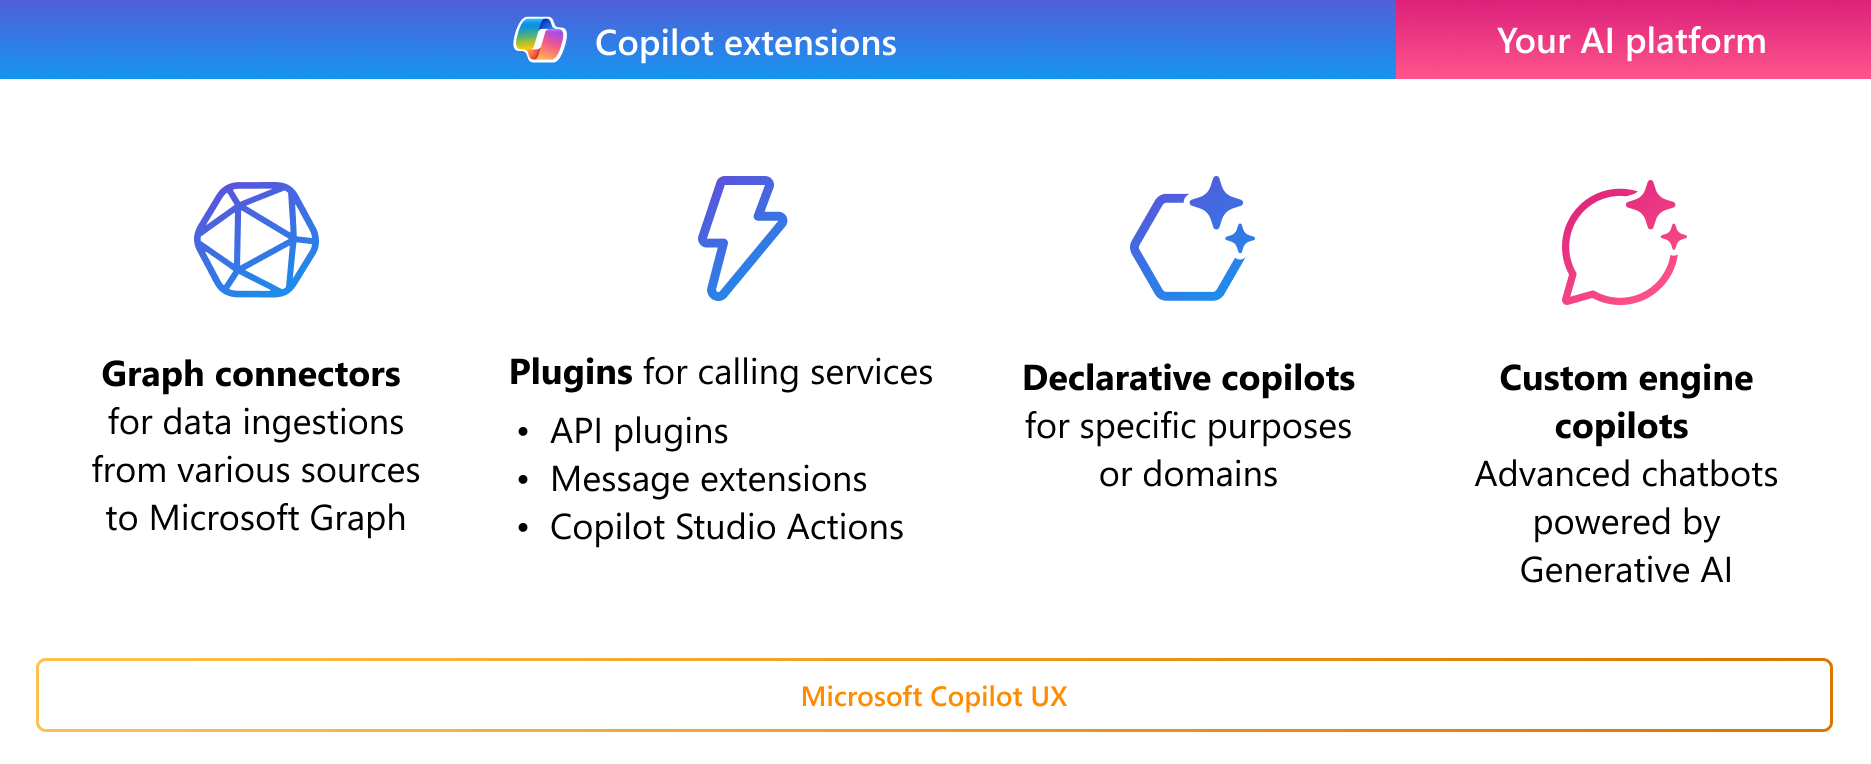
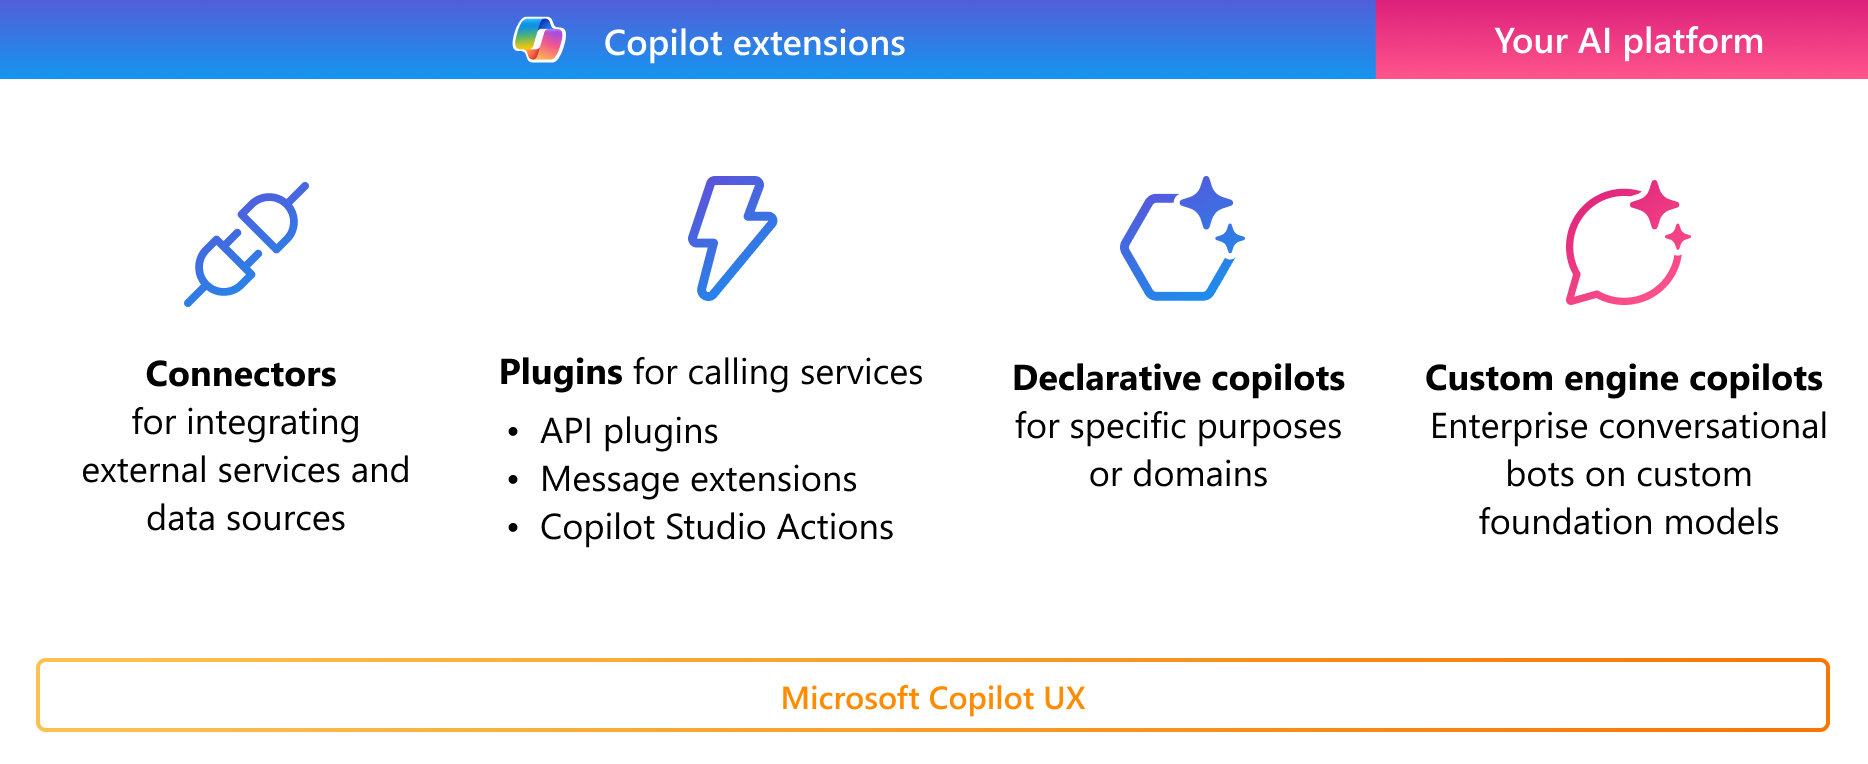
Edit to align with the latest terminilogy

diff --git a/docs/index.md b/docs/index.md
@@ -1,34 +1,25 @@
 ---
-title: Extend Microsoft Copilot for Microsoft 365
-description: Extend, enrich, and customize Microsoft Copilot for Microsoft 365 with external services, apps, and data
+title: Extend Microsoft 365 Copilot 
+description: Extend, enrich, and customize Microsoft 365 Copilot with external services, apps, and data
 author: girliemac
 ms.author: timura
 ms.topic: overview
-ms.date: 08/12/2024
+ms.date: 08/14/2024
 ---
 
-# Extend Microsoft Copilot for Microsoft 365
+# Extend Microsoft 365 Copilot
 
-As a developer, you can extend, enrich, and customize [Microsoft Copilot for Microsoft 365](/microsoft-365-copilot/microsoft-365-copilot-overview) for the unique way your customers work.
-
-On its own, Copilot for Microsoft 365 is a powerful productivity tool for keeping users in the flow of their work across Microsoft 365 applications. It provides users with **general skills** such as understanding, summarizing, predicting, recalling, translating, and generating content. It draws from a **baseline of your organizational knowledge** by indexing content in the Microsoft Graph, such as the emails, chats and documents that users have permission to access.
+**Microsoft 365 Copilot** is a powerful productivity tool that keeps users in the flow of their work across Microsoft 365 applications like Outlook, Teams, and Word, leveraging Microsoft Graph data. It offers *skills* such as understanding, summarizing, predicting, recalling, translating, and generating content. By indexing content in the Microsoft Graph, it draws from your organization's *knowledge*, including emails, chats, and documents that users have permission to access.
 
 :::image type="content" source="assets/images/copilot-system.png" alt-text="Visual representation of the Copilot for Microsoft 365 system: Foundational models (LLMs) + Microsoft Graph (your data) + Microsoft 365 and 3rd party apps" border="false":::
 
-However, business workflows don't typically run exclusively on Microsoft 365 applications and data formats. With Copilot extensibility, you can augment Copilot for Microsoft 365 with custom skills and organizational knowledge specific to your enterprise and users to enable truly spectacular AI scenarios. You can extend Copilot's skills by **transforming your app into a plugin** that increases user productivity across daily tasks and workflows. You can enrich the organizational knowledge accessible to Copilot by **ingesting your enterprise data and content with Microsoft Graph connectors**.
+As a developer, you can extend, enrich, and customize [Microsoft 365 Copilot](/microsoft-365-copilot/microsoft-365-copilot-overview) to suit the unique needs of your customers.
 
 [!INCLUDE [preview-disclaimer](includes/preview-disclaimer.md)]
 
-## Copilot extensions
+Business workflows often involve more than just Microsoft 365 applications and data formats. Copilot's extensibility allows developers to integrate additional knowledge and skills, including those from other copilots. IT Admins can also configure Copilot connectors in the Microsoft 365 Admin Center to expand the knowledge available to all users in their tenant, while respecting data access limitations.
 
 :::image type="content" source="assets/images/skills-knowledge-chart.png" alt-text="Chart with organizational 'Knowledge' as the x-axis and user 'Skills' as the y-axis showing that you can extend Copilot skills with plugins and extend Copilot knowledge with Graph connectors" border="false" lightbox="assets/images/skills-knowledge-chart.png":::
-
-Extend and customize with:
-
-- Your business data
-- Your apps
-- Your workflows
-- Your automation
 
 ## Extend Copilot for your scenario
 
@@ -53,15 +44,17 @@ Here are some practical examples of what you can develop for your organization:
 :::image type="content" source="assets/images/personas-extend-copilot.png" border="false" alt-text="Persona 1 - I am a developer, who manages the product database at an e-commerce company, and I want to build an inventory catalog plugin that brings the product information for internal org. Persona 2 - I am a marketing manager, who aims to launch a new campaign for my products. And I want a tool that helps developing marketing assets specifically tailored to the campaign." lightbox="assets/images/personas-extend-copilot.png":::
 
 
-## Types of extensibility
+## Types of Microsoft 365 Copilot extensions
 
-There are several ways you can extend Copilot for Microsoft 365.
+There are multiple types of extensions and ways to extend Microsoft 365 Copilot.
 
 :::image type="content" source="assets/images/m365-extensibility-types.png" alt-text="This illustration shows types of extensibility options, Graph connector, plugins, and declarative copilots" border="true" lightbox="assets/images/m365-extensibility-types.png":::
 
 ### Declarative copilots 
 
-Copilots with declarative instructions act as a standalone custom version of the Copilot for Microsoft 365 chat experience. Declarative copilots provide you with more tailoring, tuning, and control of the user experience. Declarative copilots have:
+Declarative copilots are essentially a collection of *Custom Knowledge* (via instructions and grounding data), and *Custom Skills* (including Actions, Triggers and Workflows) on top of M365 Copilot orchestrator and foundation models. Declarative copilots provide you with more tailoring, tuning, and control of the user experience. 
+
+Declarative copilots have:
 
 - **Familiar user interface** with Copilot for Microsoft 365
 - **Domain-specific knowledge** applied for specific tasks, such as travel planner or nutrition assistant
@@ -71,37 +64,49 @@ You can connect connectors and plugins to your declarative copilot. Connectors a
 
 Learn more about [declarative copilots](overview-declarative-copilot.md).
 
-### Microsoft Graph connectors
+### Copilot connectors
 
-Graph connectors increase the discoverability and engagement of your enterprise data by deeply integrating your data into the Copilot for Microsoft 365 experience. With Graph connectors, you can:
+Copilot connectors enable seamless integration with various external services and data sources, and they are the basic building blocks of Copilot extensions. They allow developers and IT admins to build Custom Actions and Custom Grounding to Microsoft Copilot's out-of-box features via Copilot extensions. 
+
+#### Graph connectors
+
+Graph connectors are a type of Copilot connector that enable bringing additional information periodically to the Microsoft Graph making it discoverable across various Microsoft 365 experiences including Copilot for Microsoft 365.
+
+With Graph connectors, you can:
 
 - **Make the most of your external data** by giving Copilot the ability to access and summarize your diverse datasets from different sources, enabling more comprehensive insights
 - **Use Copilot as a research aid**, letting Copilot find, summarize, and perform Q&A natively by leveraging the dataset of your choice
 - **Surface the intelligence of Copilot** in Microsoft Search, ContextIQ, and more to enhance the ways your users are already searching for answers
 
-There are three main steps to set up a Graph connector: (1) Create a connection, (2) Register your schema, and then (3) Ingest your content to the Microsoft Graph. Each item is sent with properties that match the schema you registered to power your content as discoverable in the Microsoft 365 (Office) app. Learn more about [how Graph connectors work in Copilot](overview-graph-connector.md) and [best practices for configuration](overview-graph-connector.md#configuring-your-custom-microsoft-graph-connection-for-copilot-for-microsoft-365).
+There are three main steps to set up a Graph connector: (1) Create a connection, (2) Register your schema, and then (3) Ingest your content to the Microsoft Graph. Each item is sent with properties that match the schema you registered to power your content as discoverable in the Microsoft 365 (Office) app. Learn more about [how Graph connectors work in Copilot](overview-graph-connector.md).
+
+#### Power Platform connectors
+
+Power Platform connectors are essential components that enable Power Platform applications, such as Power Automate, Power Apps, and Logic Apps, to interact with external services and data sources. They also enhance the capabilities of Microsoft 365 Copilot by enabling it to integrate with a wide range of external services and data sources, perform custom actions, and access a broader range of data types.
+
+Unlike Graph connectors, Power platform connectors are real-time data retrieval with read/write actions. For example, you can create a connector that allows your users to track a issue in real-time, also let them create actions, such as creating a ticket for the tracker.
+
 
 ### Plugins
 
-Plugins expand your users' skills by interacting with your web service using natural language in Microsoft Copilot. With plugins, you can:
+Plugins enable copilots to interact with other systems to read or write information in near real time. With plugins, you can:
 
 - **Access real-time information** such as finding the latest news coverage on a product launch
 - **Retrieve relational data** such as reporting on service tickets assigned to a given team member
 - **Perform actions across apps** such as creating a new task in your organization's work tracking system
 
-Learn more about: 
-- [API plugins](overview-api-plugins.md)
-- [Message extensions](overview-message-extension-bot.md)
-- [Copilot Studio Actions](overview-business-applications.md)
+There are a few different ways to create plugins:
+ 
+- Make an API into a Copilot plugin with [API plugins](overview-api-plugins.md)
+- Teams [Message extensions](overview-message-extension-bot.md) are now work as plugins
+- Create [Copilot Studio Actions](/microsoft-copilot-studio/copilot-plugins-overview?context=/microsoft-365-copilot/extensibility/context), if you prefer no-code/low-code
 
-The main differences between these extensions and Graph connectors are how the data is consumed. Data from a Graph connector requires prior ingestion to the Copilot semantic index; extensions fetch and act upon data in real-time.
-
-:::image type="content" source="assets/images/m365-copilot-extensibility.png" alt-text="Illustration showing how plugins and connectors interact with Copilot and Microsoft 365 data" lightbox="assets/images/m365-copilot-extensibility.png":::
-
+> [!NOTE]
+> **Actions** are the collective term for plugins as custom skills and performing an action, and the term is often used interchangeably with plugins.
 
 ### Custom engine copilots
 
-**Custom engine copilots** act as copilots and looks like a part of Microsoft Copilot extension family to the end-users, however, this is technically not the same. Custom engine copilots are conversational Teams bots designed to harness the powerful capabilities of Large Language Models (LLMs).
+**Custom engine copilots** are developed using custom foundation models and orchestrators and can be tailored to specific enterprise needs. Custom engine copilots currently work as standalone Teams apps only and, in the future, will also power Copilot extensions experiences.
 
 Learn more about [custom engine copilots](overview-custom-engine-copilot.md).
 

diff --git a/docs/decision-guide.md b/docs/decision-guide.md
@@ -1,10 +1,10 @@
 ---
 title: Your extensibility options for Microsoft Copilot
-description: Understand which type of Microsoft Copilot for Microsoft 365 plugin or connector works best for you
+description: Understand which type of Microsoft 365 Copilot extensions works best for you
 author: girliemac
 ms.author: timura
 ms.topic: conceptual
-ms.date: 08/12/2024
+ms.date: 08/16/2024
 ---
 
 # Your extensibility options for Microsoft 365 Copilot
@@ -48,9 +48,9 @@ Here's your first decision-making point; extending Copilot to leverage the model
 
 Okay, you want to leverage the Copilot orchestrator. Now, let's have a quick grasp of Microsoft Copilot—**Microsoft Copilot** is available for end-users across multiple Microsoft products, including: Microsoft 365 (Office) app, Teams, Outlook, PowerPoint, Word, Excel, Power Apps, Power Automate, Power Virtual Agents, Power Pages, and Dynamics 365.
 
-And **Copilot for Microsoft 365** is available as "Work" profile with Copilot for Microsoft 365 subscription, designed for enterprise users to enhance productivity within Microsoft 365 applications.
+And **Microsoft 365 Copilot** is available as "Work" profile with Microsoft 365 Copilot subscription, designed for enterprise users to enhance productivity within Microsoft 365 applications.
 
-By **extending Copilot for Microsoft 365** for enterprise users,
+By **extending Microsoft 365 Copilot** for enterprise users,
 
 - Your service can be a part of the Microsoft ecosystem, enabling your users to benefit from the user experience of Microsoft products and allowing you to reach millions of users
 - You can build an AI solutions for organizations to boost employee productivity across businesses
@@ -66,7 +66,7 @@ Now, it’s important to understand the variety of methods available for applyin
 
 > [!VIDEO https://www.youtube.com/embed/ILPOhVz9OdI]
 
-There are two distinct extension interfaces for Microsoft Copilot for end-users: standalone plugins that connect REST APIs, and declarative copilots. As an analogy, you can view Microsoft Copilot as something like an operating system, where plugins are services, and declarative copilots are apps. 
+From an end-user perspective, Microsoft Copilot offers two distinct extension interfaces: standalone plugins and declarative copilots. Standalone plugins connect REST APIs directly within the context of your tasks, while declarative copilots function like apps. Think of Microsoft Copilot as an operating system, where plugins act as services, and declarative copilots serve as applications.
 
 Now, let's find out which extensibility options are for you—
 
@@ -81,7 +81,7 @@ To customize Microsoft Copilot to create a specific copilot for particular tasks
 When & why to use Declarative copilots:
 
 - Scenario that requires focus or specialization
-- Layer on top of the full capability of Copilot for Microsoft 365 
+- Layer on top of the full capability of Microsoft 365 Copilot
 - Target specific roles or areas in organization, such as HR, Sales, and Finance
 - Scope to specific data sources including domain knowledge
 - Custom instructions to enable nuanced interpretation of data received from sources like plugins
@@ -130,7 +130,7 @@ With Azure AI services, you can craft a custom AI chatbot for Teams and Microsof
 
 ### How does it differ from Copilot extensions for Microsoft 365?
 
-In the context of building copilots for Microsoft 365, there are several options available. This diagram provides a comparison between the **Copilot extensibility** options (Graph connectors, plugins, and declarative copilots, which can connect to Graph connectors and plugins) and the **custom engine copilot**:
+In the context of building copilots for Microsoft 365, there are several options available. This diagram provides a comparison between the **extensions** (Graph connectors, plugins, and declarative copilots, which can connect to Graph connectors and plugins) and the **custom engine copilot**:
 
 :::image type="content" source="assets/images/copilot-ext-vs-cec.png" border="true" alt-text="This diagram compares options between Copilot extensions and custom engine copilots for M365" lightbox="assets/images/copilot-ext-vs-cec.png":::
 
